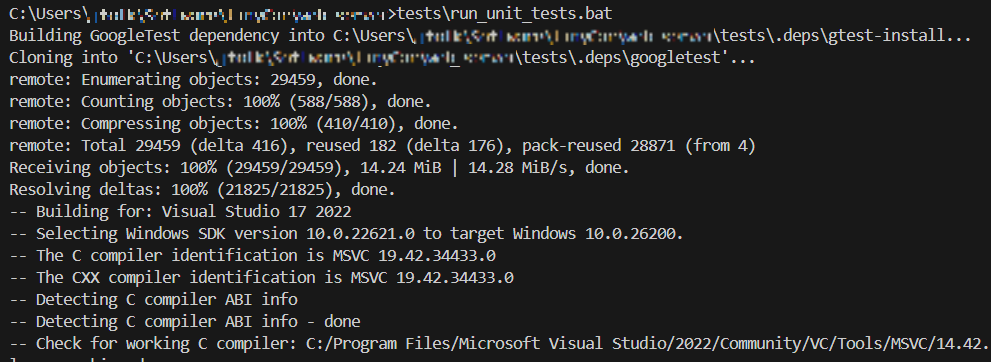
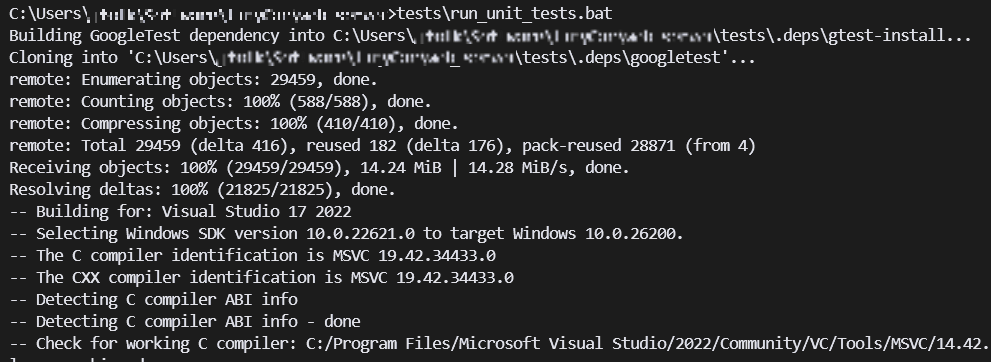
Cleaning up some posts and adding images

Changed region(s): [[0.0, 0.0, 0.999, 0.9724]]

diff --git a/_posts/2026-09-25-modular-embedded-design-the-web-peripheral-interface.md b/_posts/2026-09-25-modular-embedded-design-the-web-peripheral-interface.md
@@ -14,10 +14,12 @@ Rover was designed to be tested incrementally; it is meant as a platform for add
 Rover's development interface is a locally hosted web server. The debug web server was created to be modular. Each peripheral has a section on the website that can be added or removed with a few lines of code.
 
 ![The ESP32 Debug Web Server](/assets/img/web_server/webpage_motor_pwm_led.png){:style="width:50%; display:block; margin-left:auto; margin-right:auto"}
+*Rover hardware control via web server. Each peripheral is given a section from top to bottom.*
 
-To generated the web page above:
+The modular structure of the code keeps the main function short and readable:
 
-![Source code for ESP32 Debug Web Server](/assets/img/web_server/webpage_motor_pwm_led_code.png){:style="width:90%; display:block; margin-left:auto; margin-right:auto"}
+![Source code for ESP32 Debug Web Server](/assets/img/web_server/webpage_motor_pwm_led_code.png){:style="width:95%; display:block; margin-left:auto; margin-right:auto"}
+*app_main() for generating the web page above.*
 
 To add a peripheral to the webpage,
 
@@ -54,19 +56,35 @@ To be a peripheral, you must extend the [`PeripheralInterface`](https://github.c
 - Hooks for updating hardware (controls)
 - A hardware update function
 
+`LedWeb` is an example of a class that extends `PeripheralInterface`.
+
 ![LedWeb Interface](/assets/img/web_server/led_web_interface.png){:style="width:80%; display:block; margin-left:auto; margin-right:auto"}
 *LedWeb implements the PeripheralInterface*
 
-`LedWeb` is an example of a class that extens `PeripheralInterface`.
+The [`html_control`](https://github.com/JFolkens/esp32_peripheral_debug/blob/rover_v1/main/web/peripherals/led_web.cpp#L25) function returns a section of `html` for controlling the LED. For an LED, `html_control` returns a button.
 
+The control is also responsible for triggering a URI endpoint when the user interacts with the webpage (see [Next Steps](#next-steps) for how this can be scaled and improved). The URI endpoint must follow a certain format that makes it parseable by the server interface.
 
+The server then feeds those callbacks back to the Peripheral object via the `handle_update` function. For [`LedWeb`](https://github.com/JFolkens/esp32_peripheral_debug/blob/rover_v1/main/web/peripherals/led_web.cpp#L44), an update is one of two things: Turn ON, or Turn OFF.
 
+```cpp
+void LedWeb::handle_update(const std::map<std::string, std::string> &parameters)
+{
+    const auto action_it = parameters.find("action");
+    if (action_it == parameters.end())
+        return;
+    const std::string &cmd = action_it->second;
+    if (cmd == "on") {
+        led->set(true);
+    } else if (cmd == "off") {
+        led->set(false);
+    } else {
+        rover::hal::log_error("LedWeb", "Unknown command: %s", cmd);
+    }
+}
+```
 
-
-
-For example, [`LedWeb`](https://github.com/JFolkens/esp32_peripheral_debug/blob/rover_v1/main/web/peripherals/led_web.h) has a button that toggles between **Turn ON** and **Turn OFF**.
-
-The parent constructor `PeripheralInterface` takes in the peripheral name (`green_led`, `front_left_wheel`, etc), and typically an ownership reference to the underlying hardware module (`PwmInterface`, `GpioInterface`, etc).
+The constructor for `LedWeb` takes in the peripheral name (which is passed to the parent constructor), and an ownership reference to the underlying hardware module - in this case, `GpioInterface`. `LedWeb` should - but currently does not - verify that the `gpio` uses `GpioDirection::OUTPUT`. Or there could be an additional wrapper in the `hal` layer for exposing a GPIO as an LED (implemented as an output-only GPIO).
 
 ## Integrating Peripherals
 

diff --git a/_posts/2026-09-25-binary-assets-on-esp32.md b/_posts/2026-09-25-binary-assets-on-esp32.md
@@ -12,12 +12,17 @@ Rover is a tiny omni-wheel platform controlled via a small Http web server. The 
 
 (See [Modular Embedded Design: The Web-Peripheral Interface]({% post_url 2026-09-25-modular-embedded-design-the-web-peripheral-interface %}) for context on the `PwmWeb` class.)
 
-It worked, but it was hard to write, hard to read, and hard to keep clean as the project grew. `Stringstream` is no way to write javascript. Tracking the escape characters alone was frustrating and cumbersome.
+It worked, but it was hard to write, hard to read, and hard to keep clean as the project grew. `Stringstream` is no way to write JavaScript. Tracking the escape characters alone was frustrating and cumbersome. There was no linting or syntax highlighting.
 
 Now [`PwmWeb`](https://github.com/JFolkens/esp32_peripheral_debug/blob/rover_v1/main/web/peripherals/pwm_web.cpp) uses an embedded asset file, and the JavaScript control script can be edited in a properly highlighted [`pwm_control.js`](https://github.com/JFolkens/esp32_peripheral_debug/blob/rover_v1/main/web/assets/pwm_control.js) file:
 
 ![PwmWeb with C++ text embeddings](/assets/img/code/pwm_web_with_embedded_javascript.png){:style="width:80%; display:block; margin-left:auto; margin-right:auto"}
 *PwmWeb after moving Javascript into a separate file*
+
+Notice how several dozen lines of escaped JavaScript were replaced with a single call to `rover::hal::get_text_asset`. The text asset is retrieved using the file location `web/assets/pwm_control.js`.
+
+![PwmWeb embedded JavaScript file](/assets/img/code/pwm_web_asset_file.png){:style="width:80%; display:block; margin-left:auto; margin-right:auto"}
+*JavaScript file for PwmWeb. The `.js` file is an embedded asset for the C++ code.*
 
 It still isn't perfect (see [Next Steps](#next-steps)), but it is a significantly nicer way to develop new embedded server assets.
 
@@ -69,7 +74,8 @@ I tried a few more magic symbol variations ("maybe if I leave of the _js extensi
 
 First, I used CMake commands to print out the exact value of my `${ASSET_FILES}`. This told me that CMakeLists was finding my files, and the paths looked as I expected.
 
-* Stub: Picture of printing ${ASSET_FILES} in CMakeLists and seeing outputs *
+![CMake output showing ASSET_FILES](/assets/img/build_logs/assets_cmake.png){:style="width:95%; display:block; margin-left:auto; margin-right:auto"}
+*CMake debug statements confirm the compiler is locating asset files.*
 
 The next question is how those assets appear as symbols in the linking stage. This was done by inspecting the linked binary to see what symbols were really present.
 
@@ -146,5 +152,5 @@ The next post *(coming soon)* will cover how embedded assets can be integrated w
 
 <br><br>
 
-This is the last post in the Rover series. Feel free to start over with {% assign my_post = site.posts | where: "path", "_posts/2026-09-25-modular-embedded-design-the-web-peripheral-interface.md" | first %}
+This is currently the last post in the Rover series. Feel free to start over with {% assign my_post = site.posts | where: "path", "_posts/2026-09-25-modular-embedded-design-the-web-peripheral-interface.md" | first %}
 <a href="{{ my_post.url | relative_url }}">{{ my_post.title }}</a>
